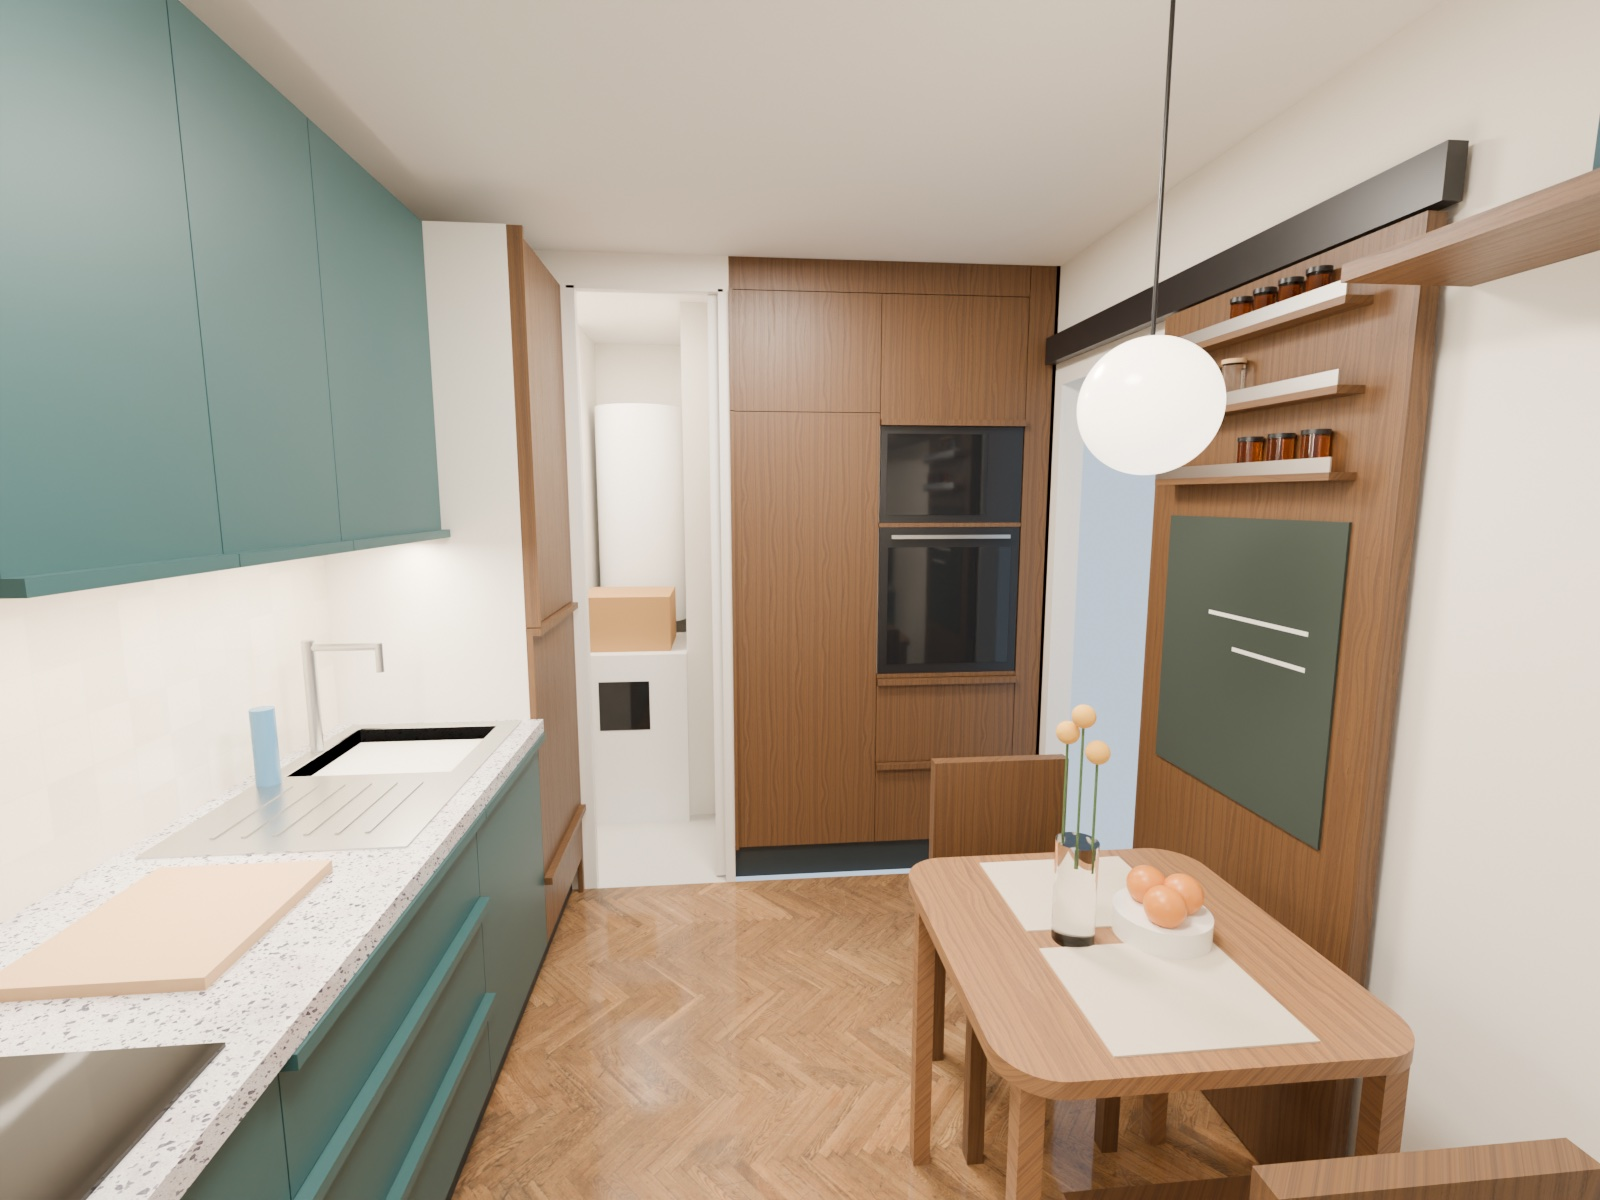
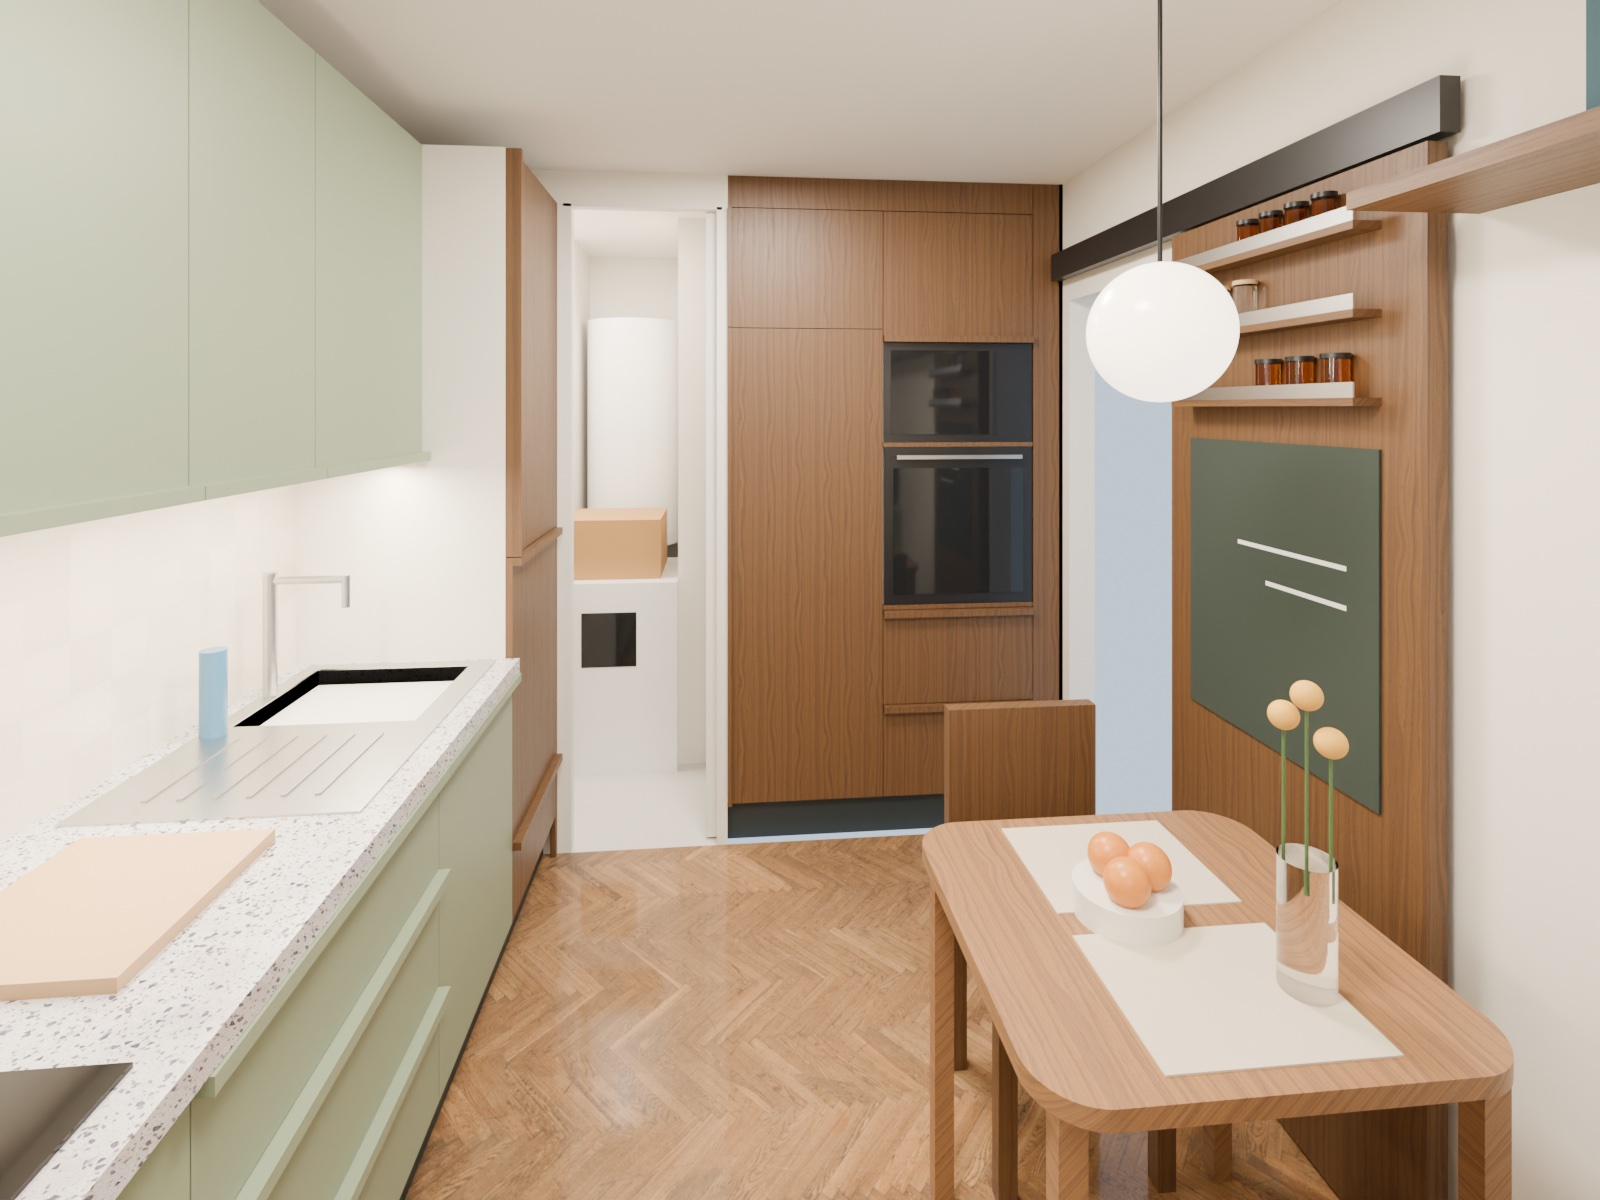
Rendus 3D V1.1 : sauge, vues à hauteur d'yeux, vue assise

diff --git a/cuisine-3d.html b/cuisine-3d.html
@@ -63,13 +63,13 @@ code{font-family:"JetBrains Mono",ui-monospace,Menlo,monospace;font-size:13px}
 <header class="ph"><a href="index.html" aria-label="Retour aux plans">← Plans</a><span>Rendus 3D cuisine</span></header>
 <!-- /page-header -->
 <main>
-  <div class="kicker">Variante A · V1 · FreeCAD + Blender</div>
+  <div class="kicker">Variante A · V1.1 · FreeCAD + Blender</div>
   <h1>Rendus 3D cuisine</h1>
-  <p class="lead">Modèle 3D construit dans FreeCAD à partir des cotes du plan et des coupes (variante A, table carrée 70 × 70), rendu dans Blender (Cycles). Meubles bas et hauts bleus, meubles toute hauteur en noyer, poignées profilées toute longueur dans la teinte de la façade, plan terrazzo gris clair, crédence zellige ivoire, parquet bâtons rompus.</p>
+  <p class="lead">Modèle 3D construit dans FreeCAD à partir des cotes du plan et des coupes (variante A, table carrée 70 × 70), rendu dans Blender (Cycles). Meubles bas et hauts sauge, meubles toute hauteur en noyer, poignées profilées toute longueur dans la teinte de la façade, plan terrazzo gris clair, crédence zellige ivoire, parquet bâtons rompus.</p>
   <div class="seg" role="group" aria-label="Décoration"><button type="button" data-deco="1" aria-pressed="true">Avec déco</button><button type="button" data-deco="0" aria-pressed="false">Sans déco</button></div>
 
   <section class="view">
-    <div class="head"><div><h2>Depuis l'entrée, vers le nord-ouest</h2><p class="sub">Rangée nord bleue, étagères ouvertes, fenêtre coulissante, coin repas.</p></div></div>
+    <div class="head"><div><h2>Depuis l'entrée, vers le nord-ouest</h2><p class="sub">Rangée nord sauge, étagères ouvertes, fenêtre coulissante, coin repas.</p></div></div>
     <a class="stage" href="cuisine-3d/rendu-entree-deco.jpg" target="_blank" data-v="entree"><img class="main r3d" src="cuisine-3d/rendu-entree-deco.jpg" data-v="entree" alt="Rendu 3D, depuis l'entrée, vers le nord-ouest" loading="lazy"></a>
   </section>
 
@@ -84,6 +84,11 @@ code{font-family:"JetBrains Mono",ui-monospace,Menlo,monospace;font-size:13px}
   </section>
 
   <section class="view">
+    <div class="head"><div><h2>Assis à table</h2><p class="sub">Sur la chaise côté four, regard vers la fenêtre et la rangée nord.</p></div></div>
+    <a class="stage" href="cuisine-3d/rendu-assis-deco.jpg" target="_blank" data-v="assis"><img class="main r3d" src="cuisine-3d/rendu-assis-deco.jpg" data-v="assis" alt="Rendu 3D, assis à table" loading="lazy"></a>
+  </section>
+
+  <section class="view">
     <div class="head"><div><h2>Vue plongeante</h2><p class="sub">Plafond retiré : l'ensemble cuisine et cellier.</p></div></div>
     <a class="stage" href="cuisine-3d/rendu-plongee-deco.jpg" target="_blank" data-v="plongee"><img class="main r3d" src="cuisine-3d/rendu-plongee-deco.jpg" data-v="plongee" alt="Rendu 3D, vue plongeante" loading="lazy"></a>
   </section>
@@ -91,7 +96,8 @@ code{font-family:"JetBrains Mono",ui-monospace,Menlo,monospace;font-size:13px}
   <section class="view">
     <h2>À savoir</h2>
     <ul class="facts">
-      <li>Le bleu est provisoire : pétrole fumé #2F5557 du nuancier, en attendant la référence du « bleu canopé ».</li>
+      <li>Teinte des meubles bas et hauts : sauge #8D9B80, celle des <a href="cuisine-rendus.html">rendus Gemini</a>.</li>
+      <li>Vues prises à hauteur d'yeux d'une personne de 1,75 m : 1,63 m debout, 1,20 m assise ; la vue plongeante fait exception.</li>
       <li>Les cotes sont recopiées du plan à la main : une modification de <a href="cuisine-plan.html">cuisine-plan.html</a> ne passe pas encore dans la 3D.</li>
       <li>Textures CC0 : noyer et parquet de Poly Haven, terrazzo d'ambientCG. La décoration est indicative.</li>
       <li>Scripts : <code>3d/cuisine_a.py</code> (FreeCAD), <code>3d/rendu.py</code> (Blender), <code>3d/textures.py</code> ; regénérer avec <code>just rendu-3d</code>.</li>
@@ -103,6 +109,7 @@ code{font-family:"JetBrains Mono",ui-monospace,Menlo,monospace;font-size:13px}
     <table>
       <thead><tr><th>Version</th><th>Date</th><th>Changements</th></tr></thead>
       <tbody>
+        <tr><td><b>V1.1</b></td><td>05/10/2026</td><td>Meubles bas et hauts en sauge #8D9B80 (couleur des rendus Gemini) ; caméras à hauteur d'yeux (1,63 m debout) avec verticales droites ; nouvelle vue assise à table (1,20 m) ; vase et corbeille de fruits déplacés sur la table.</td></tr>
         <tr><td><b>V1</b></td><td>05/10/2026</td><td>Premiers rendus 3D de la variante A : 4 vues (entrée, fenêtre, cellier, plongée), avec et sans décoration.</td></tr>
       </tbody>
     </table>

diff --git a/index.html b/index.html
@@ -38,7 +38,7 @@ ul.arch a:hover{color:var(--ink);border-color:var(--accent)}
     <a class="card" href="cuisine-sans-cellier.html"><b>Cuisine sans cellier</b><span>Trois plans vus de dessus, ancien cellier en coin buanderie ouvert : buanderie ouverte, ligne d'eau, frigo à la fenêtre.</span><span class="file">cuisine-sans-cellier.html</span></a>
     <a class="card" href="cuisine-porte-cellier.html"><b>Porte du cellier</b><span>Recherche web : galandage, pliante, coulissante, porte affleurante, tiercée à étagères. Comparatif et recommandation.</span><span class="file">cuisine-porte-cellier.html</span></a>
     <a class="card" href="cuisine-couleurs.html"><b>Couleurs</b><span>Façades, bois, murs et crédence zellige avec le parquet bâtons rompus.</span><span class="file">cuisine-couleurs.html</span></a>
-    <a class="card" href="cuisine-3d.html"><b>Rendus 3D</b><span>Variante A modélisée dans FreeCAD et rendue dans Blender : 4 vues, avec et sans déco. Bas et hauts bleus, colonnes noyer.</span><span class="file">cuisine-3d.html</span></a>
+    <a class="card" href="cuisine-3d.html"><b>Rendus 3D</b><span>Variante A modélisée dans FreeCAD et rendue dans Blender : 5 vues à hauteur d'yeux, avec et sans déco. Bas et hauts sauge, colonnes noyer.</span><span class="file">cuisine-3d.html</span></a>
     <a class="card" href="cuisine-rendus.html"><b>Rendus Gemini</b><span>Images générées, pièces jointes et prompts à copier.</span><span class="file">cuisine-rendus.html</span></a>
   </div>
 

diff --git a/3d/rendu.py b/3d/rendu.py
@@ -4,11 +4,12 @@
 # Lancement (sans interface) :
 #   /Applications/Blender.app/Contents/MacOS/Blender -b --python 3d/rendu.py -- [échantillons] [sans|deco] [vue ...]
 #   ex. : ... -- 32 deco cellier   (aperçu rapide d'une vue, avec décoration)
+#         ... -- aucune            (régénère seulement les .blend, sans rendu)
 # Sans précision : 128 échantillons, les deux versions, toutes les vues.
 #
 # Produit dans 3d/sortie/ : rendu-<vue>.png (sans déco), rendu-<vue>-deco.png (avec),
 # cuisine-a.blend et cuisine-a-deco.blend (à ouvrir pour changer de point de vue).
-# Matériaux : d'après le préfixe du nom de l'objet (« facade_bleu__… » → MATS["facade_bleu"]).
+# Matériaux : d'après le préfixe du nom de l'objet (« facade_couleur__… » → MATS["facade_couleur"]).
 
 import math
 import os
@@ -23,9 +24,9 @@ TEX = os.path.join(HERE, "textures")
 args = sys.argv[sys.argv.index("--") + 1:] if "--" in sys.argv else []
 SAMPLES = next((int(a) for a in args if a.isdigit()), 128)
 VERSIONS = [a for a in args if a in ("sans", "deco")] or ["sans", "deco"]
-VUES = [a for a in args if not a.isdigit() and a not in ("sans", "deco")] or ["entree", "fenetre", "cellier", "plongee"]
+VUES = [a for a in args if not a.isdigit() and a not in ("sans", "deco")] or ["entree", "fenetre", "cellier", "assis", "plongee"]
 
-BLEU = "#2F5557"   # pétrole fumé du nuancier, en attendant la référence exacte du « bleu canopé »
+COULEUR_BAS = "#8D9B80"   # sauge des rendus Gemini (cuisine-gemini/prompts-gemini.md), meubles bas et hauts
 
 
 def hexrgb(h):
@@ -44,7 +45,7 @@ MATS = {
     "plafond":          ("#F5F2EC", 0.95, {}),
     "sol_bois":         ("#B98A55", 0.5, {"tex": "parquet", "sens": "sol", "echelle": 3.4}),
     "sol_carrelage":    ("#D8D5CE", 0.5, {}),
-    "facade_bleu":      (BLEU, 0.45, {}),                                      # laque mate
+    "facade_couleur":      (COULEUR_BAS, 0.45, {}),                                      # laque mate
     "facade_noyer":     ("#45291A", 0.5, NOYER),
     "etagere":          ("#45291A", 0.5, dict(NOYER, sens="h")),
     "chaise":           ("#45291A", 0.5, NOYER),
@@ -291,14 +292,19 @@ def build_scene(glb):
     return ceiling
 
 
+# Vues à hauteur d'yeux : personne de 1,75 m, yeux à 163 debout, 120 assise (assise de chaise à 46).
+# Visée horizontale et décentrement vertical (shift) : les verticales restent droites, comme en photo d'architecture.
+DEBOUT, ASSIS = 163, 120
 VIEWS = {
     # depuis la baie d'entrée, regard vers la rangée nord et la fenêtre
-    "entree":  dict(loc=(268, 236, 158), target=(105, 40, 105), lens=17),
+    "entree":  dict(loc=(268, 236, DEBOUT), target=(105, 40, DEBOUT), lens=18, shift=-0.12),
     # depuis l'angle de la fenêtre, regard vers le frigo, le four et le cellier
-    "fenetre": dict(loc=(12, 120, 160), target=(320, 150, 118), lens=17),
+    "fenetre": dict(loc=(12, 120, DEBOUT), target=(320, 150, DEBOUT), lens=18, shift=-0.12),
     # depuis le seuil du cellier, porte ouverte : étagères, râtelier à balais, lave-linge, ballon
-    "cellier": dict(loc=(322, 110, 172), target=(415, 40, 105), lens=12),
-    # vue plongeante, plafond masqué
+    "cellier": dict(loc=(326, 100, DEBOUT), target=(420, 40, DEBOUT), lens=12, shift=-0.15),
+    # assis sur la chaise 2 (dossier à l'est), regard vers la fenêtre et la rangée nord
+    "assis":   dict(loc=(197, 195, ASSIS), target=(40, 110, ASSIS), lens=20, shift=0.02),
+    # vue plongeante, plafond masqué (vue de coupe, hors hauteur d'yeux)
     "plongee": dict(loc=(330, 360, 470), target=(160, 110, 40), lens=22, no_ceiling=True),
 }
 
@@ -306,16 +312,19 @@ for version in VERSIONS:
     suffix = "-deco" if version == "deco" else ""
     ceiling = build_scene(os.path.join(OUT, f"cuisine-a{suffix}.glb"))
     sc = bpy.context.scene
-    for name in VUES:
+    for name in VIEWS:  # toutes les caméras dans le .blend, rendu des seules vues demandées
         v = VIEWS[name]
         cam_data = bpy.data.cameras.new(name)
         cam_data.lens = v["lens"]
         cam_data.sensor_width = 36
+        cam_data.shift_y = v.get("shift", 0.0)
         cam = bpy.data.objects.new("cam_" + name, cam_data)
         sc.collection.objects.link(cam)
         cam.location = p(*v["loc"])
         look_at(cam, p(*v["target"]))
         sc.camera = cam
+        if name not in VUES:
+            continue
         if ceiling:
             ceiling.hide_render = bool(v.get("no_ceiling"))
         sc.render.filepath = os.path.join(OUT, f"rendu-{name}{suffix}.png")

diff --git a/3d/cuisine_a.py b/3d/cuisine_a.py
@@ -67,7 +67,7 @@ def handle(name, x0, x1, y0, y1, z0, z1):
 J = 0.15  # demi-jeu entre façades
 
 
-BAS = "facade_bleu"     # meubles bas et hauts
+BAS = "facade_couleur"     # meubles bas et hauts
 COL = "facade_noyer"    # meubles toute hauteur
 # Poignées : profilé toute longueur, dans le matériau de la façade, saillie 2,5, épaisseur 1,5.
 # « haut » / « bas » : le long du chant haut ou bas ; « g » / « d » / « n » : le long du chant vertical.
@@ -326,13 +326,13 @@ cyl("ceramique_bleue", "liquide_vaisselle", 199, 9, 2.6, 91, 110, plan=False)
 # table : sets de table, vase et fleurs, corbeille de fruits
 box("lin", "set_1", 112, 140, 178, 212, 75, 75.3, plan=False)
 box("lin", "set_2", 146, 174, 178, 212, 75, 75.3, plan=False)
-cyl("verre", "vase", 143, 186, 4, 75, 95, plan=False)
+cyl("verre", "vase", 125, 208, 4, 75, 95, plan=False)
 for i, (dx, dy, h) in enumerate(((0, 0, 118), (-3, 1.5, 112), (3, -1.5, 114))):
-    cyl("tige", f"tige_{i + 1}", 143 + dx, 186 + dy, 0.25, 90, h, plan=False)
-    sphere("fleurs", f"fleur_{i + 1}", 143 + dx, 186 + dy, h + 1.5, 2.2)
-cyl("ceramique", "coupe_fruits", 143, 204, 9, 75, 80, plan=False)
+    cyl("tige", f"tige_{i + 1}", 125 + dx, 208 + dy, 0.25, 90, h, plan=False)
+    sphere("fleurs", f"fleur_{i + 1}", 125 + dx, 208 + dy, h + 1.5, 2.2)
+cyl("ceramique", "coupe_fruits", 145, 190, 9, 75, 80, plan=False)
 for i, (dx, dy) in enumerate(((-4, -2), (4, -1), (0, 4))):
-    sphere("fruits", f"fruit_{i + 1}", 143 + dx, 204 + dy, 83, 3.8)
+    sphere("fruits", f"fruit_{i + 1}", 145 + dx, 190 + dy, 83, 3.8)
 
 # suspension globe au-dessus de la table
 cyl("noir", "fil_suspension", 143, 195, 0.4, 187, 250, plan=False)
